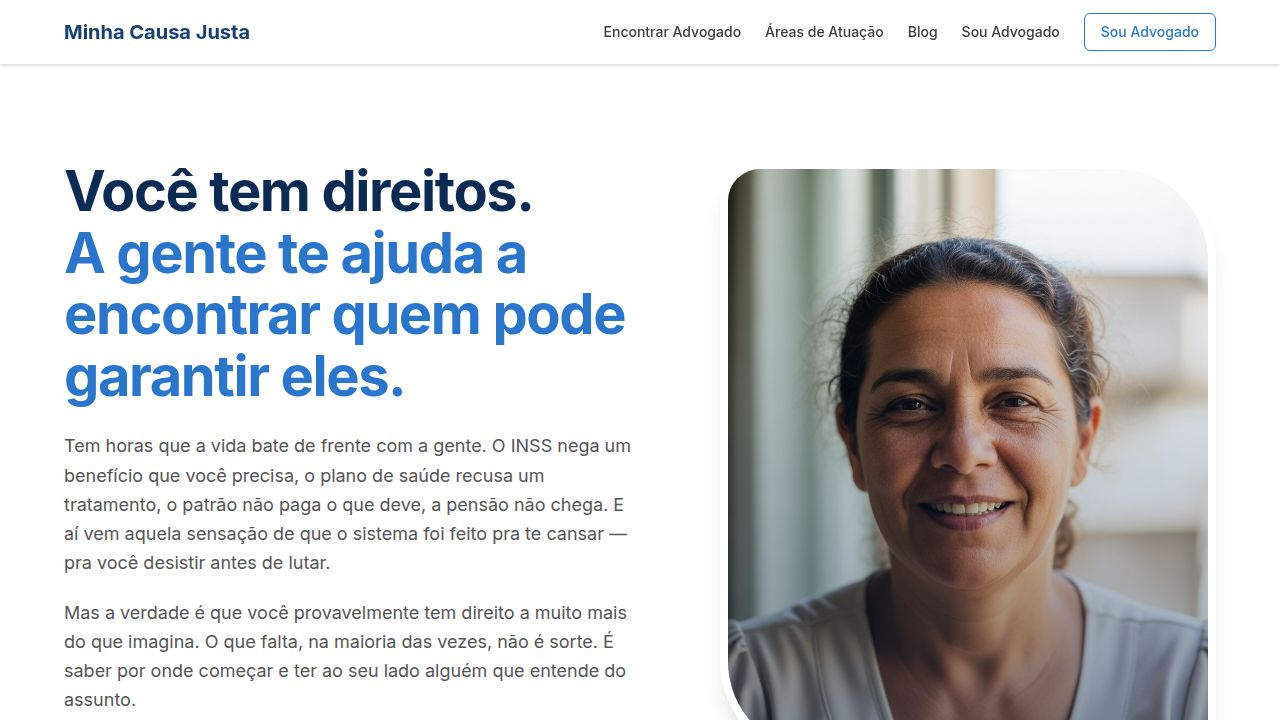
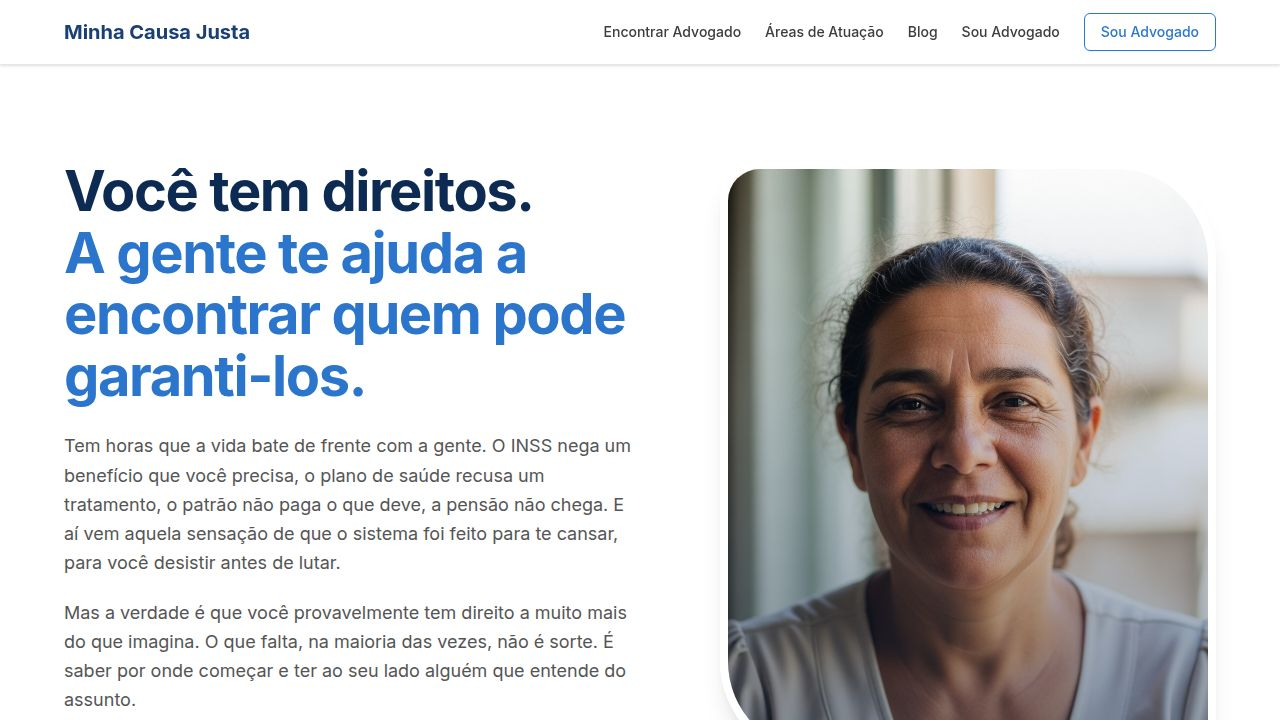
Improve Portuguese grammar and remove em dashes from all pages
Update Portuguese grammar, replace "pra" with "para", and remove em dashes across home, advogados, and cadastro pages, including shared filter strings.

Replit-Commit-Author: Agent
Replit-Commit-Session-Id: 36ad0d7c-d41d-45f5-adae-abe5e839c8b2
Replit-Commit-Checkpoint-Type: full_checkpoint
Replit-Commit-Event-Id: 0a2cf532-f279-4971-ad8f-827bcd54b2c3
Replit-Commit-Screenshot-Url: https://storage.googleapis.com/screenshot-production-us-central1/c9af5688-d051-4bac-9de2-b3f0edbbadb6/36ad0d7c-d41d-45f5-adae-abe5e839c8b2/pGLlhWO
Replit-Helium-Checkpoint-Created: true

Changed region(s): [[0.1875, 0.4889, 0.3125, 0.55], [0.0625, 0.7639, 0.2812, 0.7944], [0.375, 0.7333, 0.5, 0.7639]]

diff --git a/artifacts/minha-causa-justa/src/pages/home.tsx b/artifacts/minha-causa-justa/src/pages/home.tsx
@@ -47,11 +47,11 @@ export default function Home() {
   ];
 
   const problemas = [
-    "INSS — benefício negado ou cortado",
+    "INSS: benefício negado ou cortado",
     "Auxílio Doença",
     "Aposentadoria",
     "BPC/LOAS",
-    "Plano de saúde — reajuste abusivo ou negativa de cobertura",
+    "Plano de saúde: reajuste abusivo ou negativa de cobertura",
     "Pensão alimentícia",
     "Pensão por morte",
     "Inventário e herança",
@@ -71,18 +71,18 @@ export default function Home() {
               <div className="w-full lg:w-1/2">
                 <h1 className="text-4xl md:text-5xl lg:text-[56px] font-bold text-primary-900 leading-[1.1] mb-6 tracking-tight">
                   Você tem direitos.<br />
-                  <span className="text-primary-500">A gente te ajuda a encontrar quem pode garantir eles.</span>
+                  <span className="text-primary-500">A gente te ajuda a encontrar quem pode garanti-los.</span>
                 </h1>
                 
                 <div className="space-y-5 text-lg text-neutral-600 leading-relaxed mb-10">
                   <p>
-                    Tem horas que a vida bate de frente com a gente. O INSS nega um benefício que você precisa, o plano de saúde recusa um tratamento, o patrão não paga o que deve, a pensão não chega. E aí vem aquela sensação de que o sistema foi feito pra te cansar — pra você desistir antes de lutar.
+                    Tem horas que a vida bate de frente com a gente. O INSS nega um benefício que você precisa, o plano de saúde recusa um tratamento, o patrão não paga o que deve, a pensão não chega. E aí vem aquela sensação de que o sistema foi feito para te cansar, para você desistir antes de lutar.
                   </p>
                   <p>
                     Mas a verdade é que você provavelmente tem direito a muito mais do que imagina. O que falta, na maioria das vezes, não é sorte. É saber por onde começar e ter ao seu lado alguém que entende do assunto.
                   </p>
                   <p>
-                    A Minha Causa Justa existe pra isso: mostrar que existe um caminho, e conectar você com advogados que trabalham com situações como a sua todo dia.
+                    A Minha Causa Justa existe para isso: mostrar que existe um caminho, e conectar você com advogados que trabalham com situações como a sua todo dia.
                   </p>
                   <p className="font-semibold text-primary-800 text-xl pt-2">
                     Você não precisa entender de lei. Precisa dar o primeiro passo.
@@ -151,11 +151,11 @@ export default function Home() {
             
             <div className="grid grid-cols-1 sm:grid-cols-2 lg:grid-cols-4 gap-6">
               {[
-                { icon: HeartCrack, title: "INSS negou meu benefício", desc: "Seu pedido foi recusado ou cortado sem explicação.", filter: "INSS — benefício negado ou cortado", bg: "bg-blue-50" },
+                { icon: HeartCrack, title: "INSS negou meu benefício", desc: "Seu pedido foi recusado ou cortado sem explicação.", filter: "INSS: benefício negado ou cortado", bg: "bg-blue-50" },
                 { icon: Activity, title: "Preciso do Auxílio Doença", desc: "Está afastado do trabalho e o INSS não reconhece sua situação.", filter: "Auxílio Doença", bg: "bg-indigo-50" },
                 { icon: BriefcaseBusiness, title: "Quero me aposentar", desc: "Não sabe se já tem direito ou como dar entrada.", filter: "Aposentadoria", bg: "bg-cyan-50" },
-                { icon: Accessibility, title: "BPC/LOAS — benefício para quem precisa", desc: "Pessoa com deficiência ou idoso sem renda que foi negado.", filter: "BPC/LOAS", bg: "bg-teal-50" },
-                { icon: TrendingUp, title: "Plano de saúde aumentou absurdamente", desc: "Reajuste abusivo ou negativa de cobertura indevida.", filter: "Plano de saúde — reajuste abusivo ou negativa de cobertura", bg: "bg-orange-50" },
+                { icon: Accessibility, title: "BPC/LOAS: benefício para quem precisa", desc: "Pessoa com deficiência ou idoso sem renda que foi negado.", filter: "BPC/LOAS", bg: "bg-teal-50" },
+                { icon: TrendingUp, title: "Plano de saúde aumentou absurdamente", desc: "Reajuste abusivo ou negativa de cobertura indevida.", filter: "Plano de saúde: reajuste abusivo ou negativa de cobertura", bg: "bg-orange-50" },
                 { icon: Baby, title: "Pensão alimentícia", desc: "Precisa cobrar ou revisar o valor que o pai ou a mãe paga.", filter: "Pensão alimentícia", bg: "bg-pink-50" },
                 { icon: Flower2, title: "Pensão por morte", desc: "Perdeu alguém e não sabe como garantir o benefício.", filter: "Pensão por morte", bg: "bg-purple-50" },
                 { icon: FileText, title: "Inventário e herança", desc: "Familiar faleceu e a família não sabe como dividir os bens.", filter: "Inventário e herança", bg: "bg-emerald-50" }
@@ -211,7 +211,7 @@ export default function Home() {
 
                 <div className="space-y-8">
                   {[
-                    { step: "1", title: "Conta pra gente o que está acontecendo", desc: "Escolha o problema que mais se parece com a sua situação." },
+                    { step: "1", title: "Conta para a gente o que está acontecendo", desc: "Escolha o problema que mais se parece com a sua situação." },
                     { step: "2", title: "Veja advogados disponíveis", desc: "Perfis com especialidade, localização e informações de contato." },
                     { step: "3", title: "Entre em contato diretamente", desc: "Você fala com o advogado pelo canal que preferir. Sem intermediários." }
                   ].map((item, idx) => (
@@ -238,7 +238,7 @@ export default function Home() {
               <div className="w-full lg:w-1/2 z-10">
                 <h2 className="text-3xl md:text-4xl font-bold text-primary-900 mb-6 tracking-tight">Feito para quem precisa de resposta, não de complicação</h2>
                 <p className="text-lg text-neutral-600 leading-relaxed mb-10">
-                  A maioria das pessoas que precisam de um advogado nunca teve um. Não sabe por onde começar, não sabe a quem recorrer, não sabe se existe alguém que resolva exatamente o que ela está passando. A Minha Causa Justa foi pensada pra esse momento — quando você precisa encontrar a pessoa certa, sem perder tempo nem cair em mãos erradas.
+                  A maioria das pessoas que precisam de um advogado nunca teve um. Não sabe por onde começar, não sabe a quem recorrer, não sabe se existe alguém que resolva exatamente o que ela está passando. A Minha Causa Justa foi pensada para esse momento, quando você precisa encontrar a pessoa certa, sem perder tempo nem cair em mãos erradas.
                 </p>
                 
                 <div className="space-y-8">
@@ -258,7 +258,7 @@ export default function Home() {
                     </div>
                     <div>
                       <h3 className="font-bold text-lg text-primary-900 mb-2">Advogados de verdade, para situações reais</h3>
-                      <p className="text-neutral-600 leading-relaxed">Profissionais inscritos na OAB que trabalham com as causas do dia a dia — não com grandes empresas.</p>
+                      <p className="text-neutral-600 leading-relaxed">Profissionais inscritos na OAB que trabalham com as causas do dia a dia, não com grandes empresas.</p>
                     </div>
                   </div>
                   
@@ -297,7 +297,7 @@ export default function Home() {
               <div className="max-w-2xl">
                 <h2 className="text-3xl md:text-4xl font-bold text-primary-900 mb-6 tracking-tight">Entenda seus direitos antes de qualquer coisa</h2>
                 <p className="text-lg text-neutral-600 leading-relaxed">
-                  Escrevemos sobre direitos do jeito que a gente gostaria de ter aprendido: sem complicação, sem letra miúda, sem precisar ter feito faculdade de direito pra entender.
+                  Escrevemos sobre direitos do jeito que a gente gostaria de ter aprendido: sem complicação, sem letra miúda, sem precisar ter feito faculdade de direito para entender.
                 </p>
               </div>
               <Button asChild variant="outline" className="rounded-full shrink-0 hidden md:inline-flex h-12 px-8 text-base border-primary-200 text-primary-700 hover:bg-primary-50">

diff --git a/artifacts/minha-causa-justa/src/pages/cadastro.tsx b/artifacts/minha-causa-justa/src/pages/cadastro.tsx
@@ -19,7 +19,7 @@ export default function Cadastro() {
     {
       icon: TrendingUp,
       title: "Visibilidade para quem já quer contratar",
-      desc: "O usuário que chega à Minha Causa Justa já identificou que tem um problema jurídico. Ele não está navegando por acaso — está procurando um profissional. Você aparece no momento certo."
+      desc: "O usuário que chega à Minha Causa Justa já identificou que tem um problema jurídico. Ele não está navegando por acaso, está procurando um profissional. Você aparece no momento certo."
     },
     {
       icon: UserCircle,
@@ -29,7 +29,7 @@ export default function Cadastro() {
     {
       icon: BarChart3,
       title: "Números reais no seu painel",
-      desc: "Veja quantas pessoas visualizaram seu perfil, em quais áreas e em qual período. Sem achismo — você acompanha o retorno do seu investimento."
+      desc: "Veja quantas pessoas visualizaram seu perfil, em quais áreas e em qual período. Sem achismo, você acompanha o retorno do seu investimento."
     },
     {
       icon: Handshake,
@@ -53,7 +53,7 @@ export default function Cadastro() {
     },
     {
       q: "Quantos clientes vou receber?",
-      a: "Não trabalhamos com promessa de número de contatos — nenhuma plataforma honesta faz isso. O que garantimos é que seu perfil ficará visível para todos os usuários que buscarem advogados na sua área e estado. O volume depende do tráfego da plataforma, que cresce a cada mês."
+      a: "Não trabalhamos com promessa de número de contatos. Nenhuma plataforma honesta faz isso. O que garantimos é que seu perfil ficará visível para todos os usuários que buscarem advogados na sua área e estado. O volume depende do tráfego da plataforma, que cresce a cada mês."
     },
     {
       q: "Preciso fechar contrato com a plataforma?",
@@ -61,7 +61,7 @@ export default function Cadastro() {
     },
     {
       q: "O contato com o cliente passa pela plataforma?",
-      a: "Não. O usuário vê suas informações de contato diretamente no perfil e fala com você pelo canal que preferir — WhatsApp, telefone ou e-mail. A plataforma não intermedia nem acompanha essa conversa."
+      a: "Não. O usuário vê suas informações de contato diretamente no perfil e fala com você pelo canal que preferir: WhatsApp, telefone ou e-mail. A plataforma não intermedia nem acompanha essa conversa."
     },
     {
       q: "A plataforma cobra alguma comissão sobre os honorários?",
@@ -95,7 +95,7 @@ export default function Cadastro() {
     },
     {
       icon: Phone,
-      title: "Informe como prefere ser contactado",
+      title: "Informe como prefere ser contatado",
       desc: "WhatsApp converte mais do que e-mail para esse público. Se você atende pelo WhatsApp, deixe isso claro no perfil."
     }
   ];
@@ -120,7 +120,7 @@ export default function Cadastro() {
 
                 <div className="space-y-5 text-lg text-neutral-600 leading-relaxed mb-10">
                   <p>
-                    Todo dia, brasileiros pesquisam na internet o que fazer quando o INSS nega um benefício, quando o plano de saúde recusa uma cirurgia, quando a pensão não chega. Eles estão com um problema real, já decidiram que precisam de ajuda — e estão procurando alguém de confiança para falar.
+                    Todo dia, brasileiros pesquisam na internet o que fazer quando o INSS nega um benefício, quando o plano de saúde recusa uma cirurgia, quando a pensão não chega. Eles estão com um problema real, já decidiram que precisam de ajuda e estão procurando alguém de confiança para falar.
                   </p>
                   <p className="font-semibold text-primary-800 text-xl pt-2">
                     A Minha Causa Justa é o lugar onde eles chegam. E onde você pode estar.
@@ -304,7 +304,7 @@ export default function Cadastro() {
                 </ul>
 
                 <p className="text-neutral-600 leading-relaxed pt-6 border-t border-neutral-200">
-                  Não importa se você formou em faculdade pública ou particular, se tem cinco anos de carreira ou quinze, se trabalha sozinho ou em parceria com um colega. O que importa é que você atende gente real, com problemas reais — e quer que essas pessoas te encontrem.
+                  Não importa se você formou em faculdade pública ou particular, se tem cinco anos de carreira ou quinze, se trabalha sozinho ou em parceria com um colega. O que importa é que você atende gente real, com problemas reais e quer que essas pessoas te encontrem.
                 </p>
               </div>
             </div>

diff --git a/artifacts/minha-causa-justa/src/pages/advogados.tsx b/artifacts/minha-causa-justa/src/pages/advogados.tsx
@@ -130,11 +130,11 @@ export default function Advogados() {
         l.secondaryArea.toLowerCase().includes(prob.toLowerCase().split(' ')[0]) ||
         l.badges.some(b => prob.toLowerCase().includes(b.toLowerCase())) ||
         prob.toLowerCase().includes(l.primaryArea.toLowerCase()) ||
-        (prob === "INSS — benefício negado ou cortado" && l.badges.includes("INSS")) ||
+        (prob === "INSS: benefício negado ou cortado" && l.badges.includes("INSS")) ||
         (prob === "Auxílio Doença" && l.badges.includes("Auxílio Doença")) ||
         (prob === "Aposentadoria" && l.badges.includes("Aposentadoria")) ||
         (prob === "BPC/LOAS" && l.badges.includes("BPC/LOAS")) ||
-        (prob === "Plano de saúde — reajuste abusivo ou negativa de cobertura" && l.badges.includes("Plano de Saúde")) ||
+        (prob === "Plano de saúde: reajuste abusivo ou negativa de cobertura" && l.badges.includes("Plano de Saúde")) ||
         (prob === "Pensão alimentícia" && l.badges.includes("Pensão Alimentícia")) ||
         (prob === "Pensão por morte" && l.badges.includes("Pensão por Morte")) ||
         (prob === "Inventário e herança" && l.badges.includes("Inventário")) ||
@@ -167,11 +167,11 @@ export default function Advogados() {
   ];
 
   const problemas = [
-    "INSS — benefício negado ou cortado",
+    "INSS: benefício negado ou cortado",
     "Auxílio Doença",
     "Aposentadoria",
     "BPC/LOAS",
-    "Plano de saúde — reajuste abusivo ou negativa de cobertura",
+    "Plano de saúde: reajuste abusivo ou negativa de cobertura",
     "Pensão alimentícia",
     "Pensão por morte",
     "Inventário e herança",